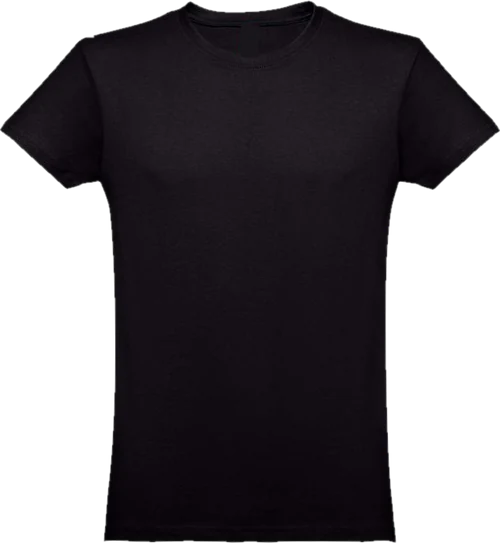
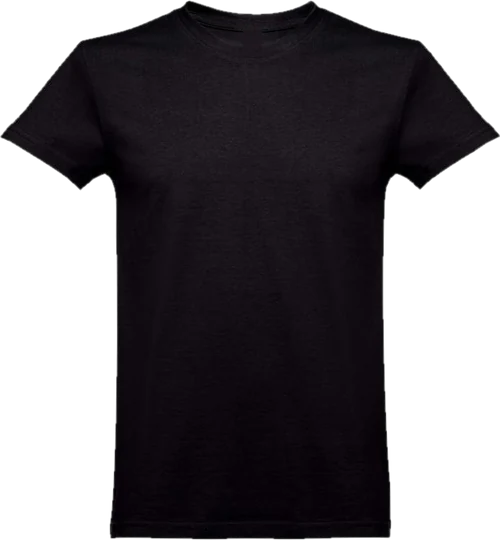
Swap classic t-shirt photo to the TH Clothes Ankara 190g (labels removed)
Claude-Session: https://claude.ai/code/session_01QY64qFsMWhcFWyKvCzzbKC

diff --git a/lib/photos.ts b/lib/photos.ts
@@ -56,7 +56,7 @@ export type PhotoSpec = {
 export const PHOTOS: Record<string, PhotoSpec> = {
   sweat: { w: 415, h: 474, images: SWEAT_PHOTO, cm: 3.4, chestX: 207, smallX: 262, smallY: 92, topFront: 92, topBack: 66 },
   tshirt: {
-    w: 500, h: 543, cm: 5.65, chestX: 250, smallX: 324, smallY: 118, topFront: 106, topBack: 72,
+    w: 500, h: 540, cm: 5.33, chestX: 250, smallX: 326, smallY: 113, topFront: 105, topBack: 77,
     images: {
       Branco: tBranco.src, Preto: tPreto.src, "Azul-marinho": tMarinho.src, Cinzento: tCinzento.src, Vermelho: tVermelho.src,
       Verde: tVerde.src, "Azul royal": tRoyal.src, Amarelo: tAmarelo.src, Rosa: tRosa.src, Bege: tBege.src,
